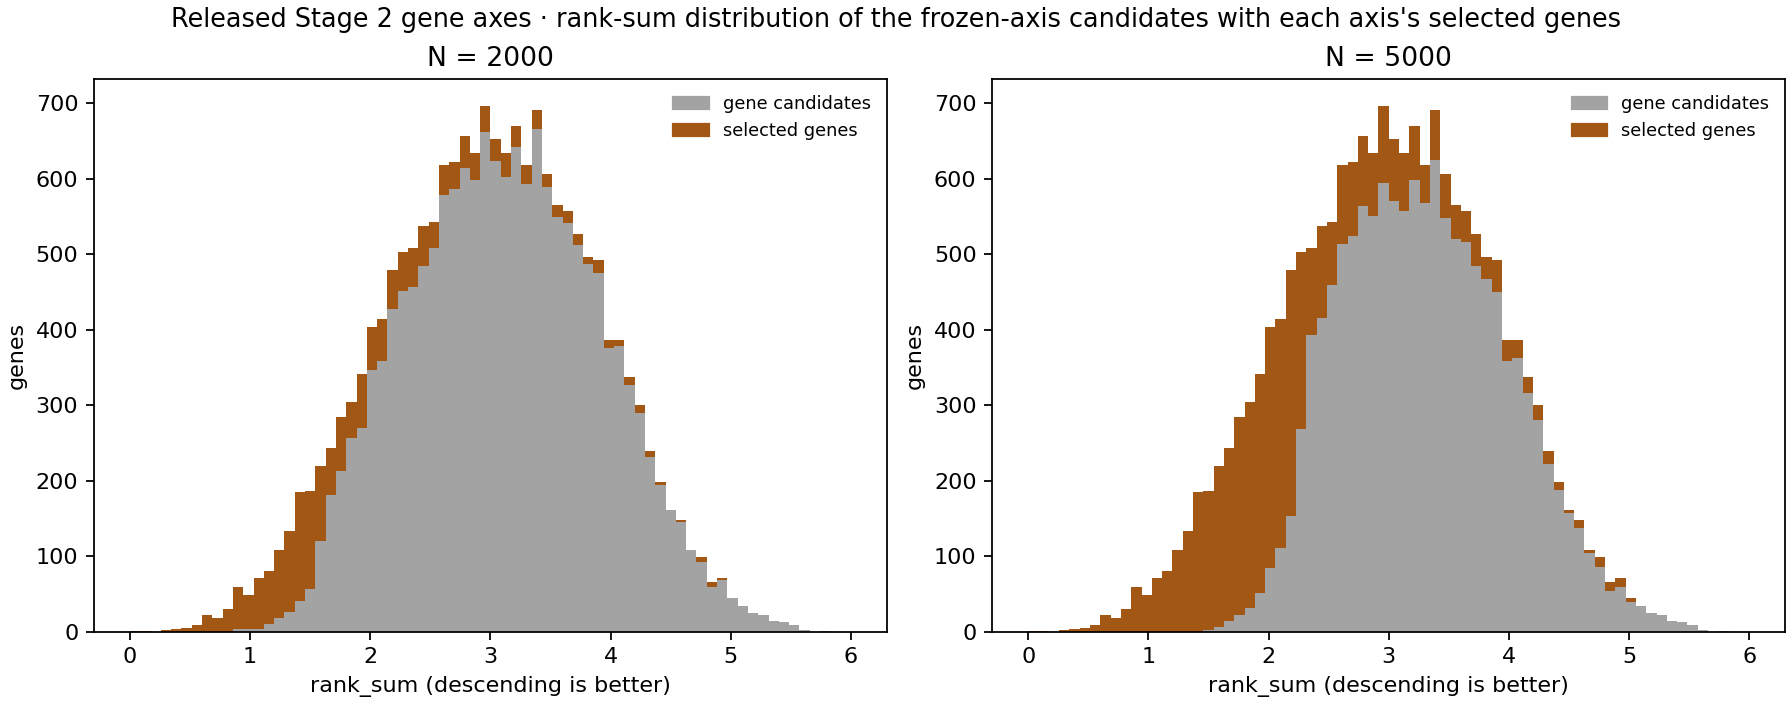
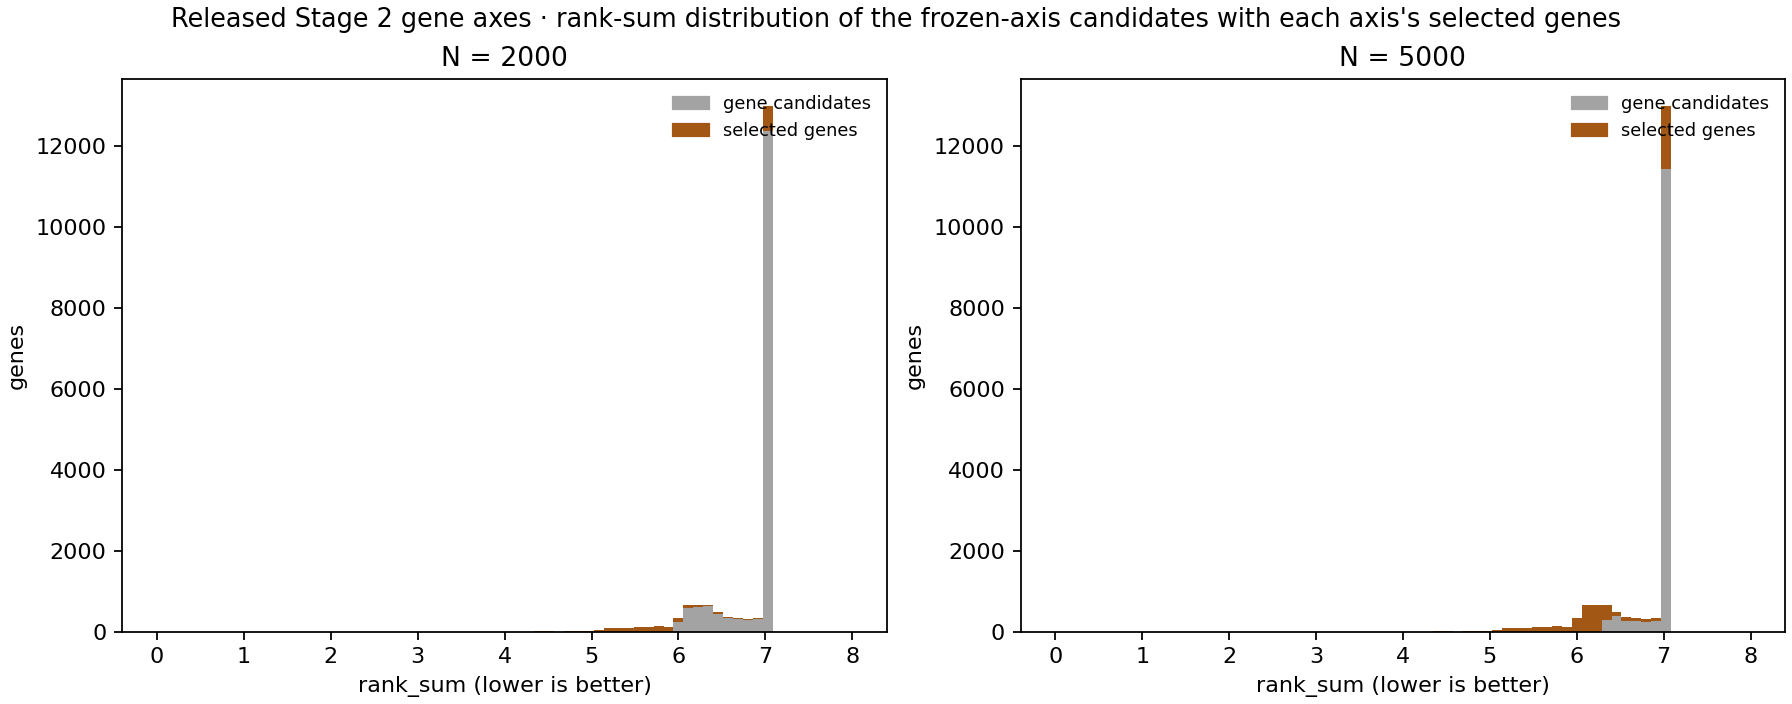
fix(#210): re-render and re-pin both gene-axis figures against v2
Both committed PNGs were stale against the v2 plotted values #208 regenerated,
so both CSV-only replay tests failed. They are re-rendered from their own
committed CSVs with the committed renderers and re-pinned:

- gene_axis_source_topn_coverage.png 51ea4bc8.. -> 37c24d17..
- gene_axis_rank_sum_histogram.png    5c54608f.. -> 874f6020..

Two v1 labels that the v2 release made untrue are corrected:

- Panel b was "Top-N Coverage Rate" (y = coverage rate (%)). The v1 denominator
  was N for every source; v2's is each group's own set -- |DEG2000_d| for a
  disease (af 1 .. cardiotox_TOP2 2,000) and N only for tenv-HVG (ADR 0071
  decision 8) -- so AF's 1-of-1 G_5000 cell read as a 100% "Top-N" coverage.
  The panel is now "Coverage of Each Group" (y = share of group covered (%)).
  The label lives in SOURCE_COVERAGE_FIGURE_PANELS, so the driver republished
  the plotted-values CSV and manifest.coverage.figure.panels (gene-axis
  manifest 078f604a.. -> c247dcc0.., --verify PASS); every axis and coverage
  payload digest is byte-unchanged.
- The rank-sum x annotation was "rank_sum (descending is better)", contradicting
  the released RANK_SUM_RULE ("Ascending is better") and the plotted selection
  at low rank_sum; it now reads "rank_sum (lower is better)" (renderer only).

Both views pin the gene-axis manifest, so they were re-published and
re-verified against the new one: view payload digests are byte-unchanged, the
[…]

diff --git a/stage2/01_bases/execution/build_gene_axis.py b/stage2/01_bases/execution/build_gene_axis.py
@@ -92,8 +92,11 @@ SOURCE_COVERAGE_FIGURE_COLUMNS = (
 SOURCE_COVERAGE_FIGURE_PANELS = (
     {'panel': 'a', 'title': 'Covered Gene Count', 'y_label': 'covered genes',
      'value': 'count'},
-    {'panel': 'b', 'title': 'Top-N Coverage Rate', 'y_label': 'coverage rate (%)',
-     'value': 'rate'},
+    # The rate's denominator is no longer N for every group: it is |DEG2000_d|
+    # for a disease and N only for tenv-HVG (ADR 0071 decision 8), so the v1
+    # "Top-N" wording misdescribes six of the seven groups.
+    {'panel': 'b', 'title': 'Coverage of Each Group',
+     'y_label': 'share of group covered (%)', 'value': 'rate'},
 )
 SOURCE_COVERAGE_FIGURE_LABELS = {'tenv_hvg': 'tenv-HVG', **CATEGORY_LABELS}
 

diff --git a/stage2/01_bases/figure/script/render_gene_axis_rank_sum_histogram.py b/stage2/01_bases/figure/script/render_gene_axis_rank_sum_histogram.py
@@ -44,8 +44,11 @@ CANDIDATE_COLOR = color('gray', FILL_SHADE)
 SELECTED_COLOR = color('orange', LINE_SHADE)
 CANDIDATE_LABEL = 'gene candidates'
 SELECTED_LABEL = 'selected genes'
-#: The x-axis annotation the released figure carries (2026-11-14 design request).
-X_LABEL = 'rank_sum (descending is better)'
+#: The x-axis annotation the released figure carries. The released rule is
+#: ``RANK_SUM_RULE``: rank 1 is the strongest DEG, a gene outside ``DEG2000_d``
+#: pays ``(n_d + 1) / n_d``, so a smaller sum is better (ascending). The v1
+#: "(descending is better)" wording contradicted that rule.
+X_LABEL = 'rank_sum (lower is better)'
 Y_LABEL = 'genes'
 
 

diff --git a/stage2/01_bases/log/acceptance.md b/stage2/01_bases/log/acceptance.md
@@ -5,6 +5,13 @@
 > republish: see **§10** for the six-category disease-DEG, six-disease
 > fusion, `f2000` axis and re-pinned views, and `inputs.json` for the
 > machine-readable old-to-new digest mapping.
+>
+> **Figure re-pin (#210, 2026-11-15).** The two gene-axis PNG digests and the
+> panel labels in §4 and in the 2026-11-14 figure paragraphs are superseded:
+> both PNGs are re-rendered and re-pinned from their committed v2 plotted
+> values, the coverage panel-b and rank-sum x labels are corrected, and both
+> views are re-published on the new gene-axis manifest — see **§10.10** and
+> `inputs.json.figure_repin`.
 
 Accepted 2026-11-13 on branch `ticket/192-acceptance` (worktree `.scratch/worktrees/t192`,
 base `dev=cb72b92`). Re-accepted after the post-review fixes of #194 on branch
@@ -514,3 +521,61 @@ the two suites that were red on `dev` before this ticket
 (all three audits), `script/check_tracked.sh` PASS, `script/verify_all.sh` PASS
 54/54. The tree is clean after the merge; no item `source/` or `local/` payload
 was written by the republish.
+
+### 10.10 Figure re-pin and label correction (#210, 2026-11-15)
+
+Both committed gene-axis PNGs were stale against the v2 plotted values that
+§10.1 regenerated. They are re-rendered from their own tracked CSVs with the
+committed renderers and re-pinned; the CSV-only replay assertion now passes for
+both, and no plotted value changed.
+
+| figure | plotted values | PNG (old → new) | replay |
+|---|---|---|---|
+| `gene_axis_source_topn_coverage.png` | `figure/data/gene_axis_source_topn_coverage.csv` `103073c1…` → `00a04341…` (panel-b label only) | `51ea4bc8…` → `37c24d17…` | byte-identical (`SourceCoverageFigureTests`) |
+| `gene_axis_rank_sum_histogram.png` | unchanged `c402554a…` | `5c54608f…` → `874f6020…` | byte-identical (`FigureTests`) |
+
+**Labels corrected.** Two labels that the v1 wording made untrue:
+
+- Panel b of the coverage figure was `Top-N Coverage Rate` (y = `coverage rate
+  (%)`). The v1 denominator was `N` for every source; the v2 denominator is the
+  group's own set — `|DEG2000_d|` for a disease (`af` 1, `cardiotox_other` 297,
+  `genetic_cardiomyopathy` 1,482, `icm` 1,647, `nhf` 1,661, `cardiotox_TOP2`
+  2,000) and `N` only for `tenv-HVG` (ADR 0071 decision 8). Under the old title
+  `AF`'s 1-of-1 `G_5000` cell read as a 100% "Top-N" coverage. The panel is now
+  `Coverage of Each Group` (y = `share of group covered (%)`). The label lives
+  in `SOURCE_COVERAGE_FIGURE_PANELS`, so the plotted-values CSV and
+  `manifest.coverage.figure.panels` carry it too: gene-axis manifest `078f604a…`
+  → `c247dcc0…`, `--verify` PASS, 10 inputs / 7 outputs, 0.33 s / 131 MiB. Every
+  axis and coverage payload digest is byte-unchanged (`source_topn_coverage.csv`
+  stays `8db5fcbf…`).
+- The rank-sum figure's x annotation was `rank_sum (descending is better)`,
+  contradicting the released `RANK_SUM_RULE` ("Ascending is better": rank 1 is
+  the strongest DEG and a gene outside `DEG2000_d` pays `(n_d + 1) / n_d`); the
+  plotted selected genes sit at low `rank_sum`. It now reads `rank_sum (lower is
+  better)`. Only the renderer constant changed.
+
+Because both views pin the gene-axis release manifest, they were re-published
+and re-verified against the new one: the view **payload digests are
+byte-unchanged** (`tahoe_bulk.h5ad`, `tenv.h5ad`, `library_totals.csv`; only the
+pinned input differs). Manifests: `view-2k` `30d2447f…` → `bb313a64…`,
+`view-5k` `4da06c5d…` → `88f1774f…`; `publish` 3 m 29.1 s / 430 MiB, `verify`
+3 m 31.9 s / 427 MiB, both PASS (`log/view_publish_verify.json` and
+`log/view_verify.json` are those runs). The gitignored corpus payloads were
+materialised into the worktree by symlink to the main checkout — the documented
+#195 trap — and died with the worktree; no item `source/` or `local/` byte was
+written.
+
+**Observation (not a rendering change).** The six-term `rank_sum` is nearly
+constant for the 12,882 `f2000 = 0` candidates: a gene outside a disease's
+`DEG2000` pays `(n_d + 1) / n_d` in every term, and `AF`'s `n_d = 1` makes its
+term exactly 2.0 for every non-AF gene, so those candidates pile into one bin at
+≈7.0 — the figure's single spike. The figure plots the committed values
+honestly; the thinness is the rule's arithmetic (ADR 0071), not the renderer.
+
+**Health.** On the merged tree, `python -m unittest discover -s
+stage2/01_bases/execution/tests` gives **398 tests: 3 failures + 5 errors**,
+exactly the eight #209-owned tests (six `DocxTests`, two
+`test_gene_axis_source_metadata.CoverageContractTest`, listed in
+`inputs.json.health.red_tests`); the two #210 figure replay tests are green and
+every other suite is green. `script/check_paths.sh`, `script/check_tracked.sh`
+and `script/verify_all.sh` PASS.
